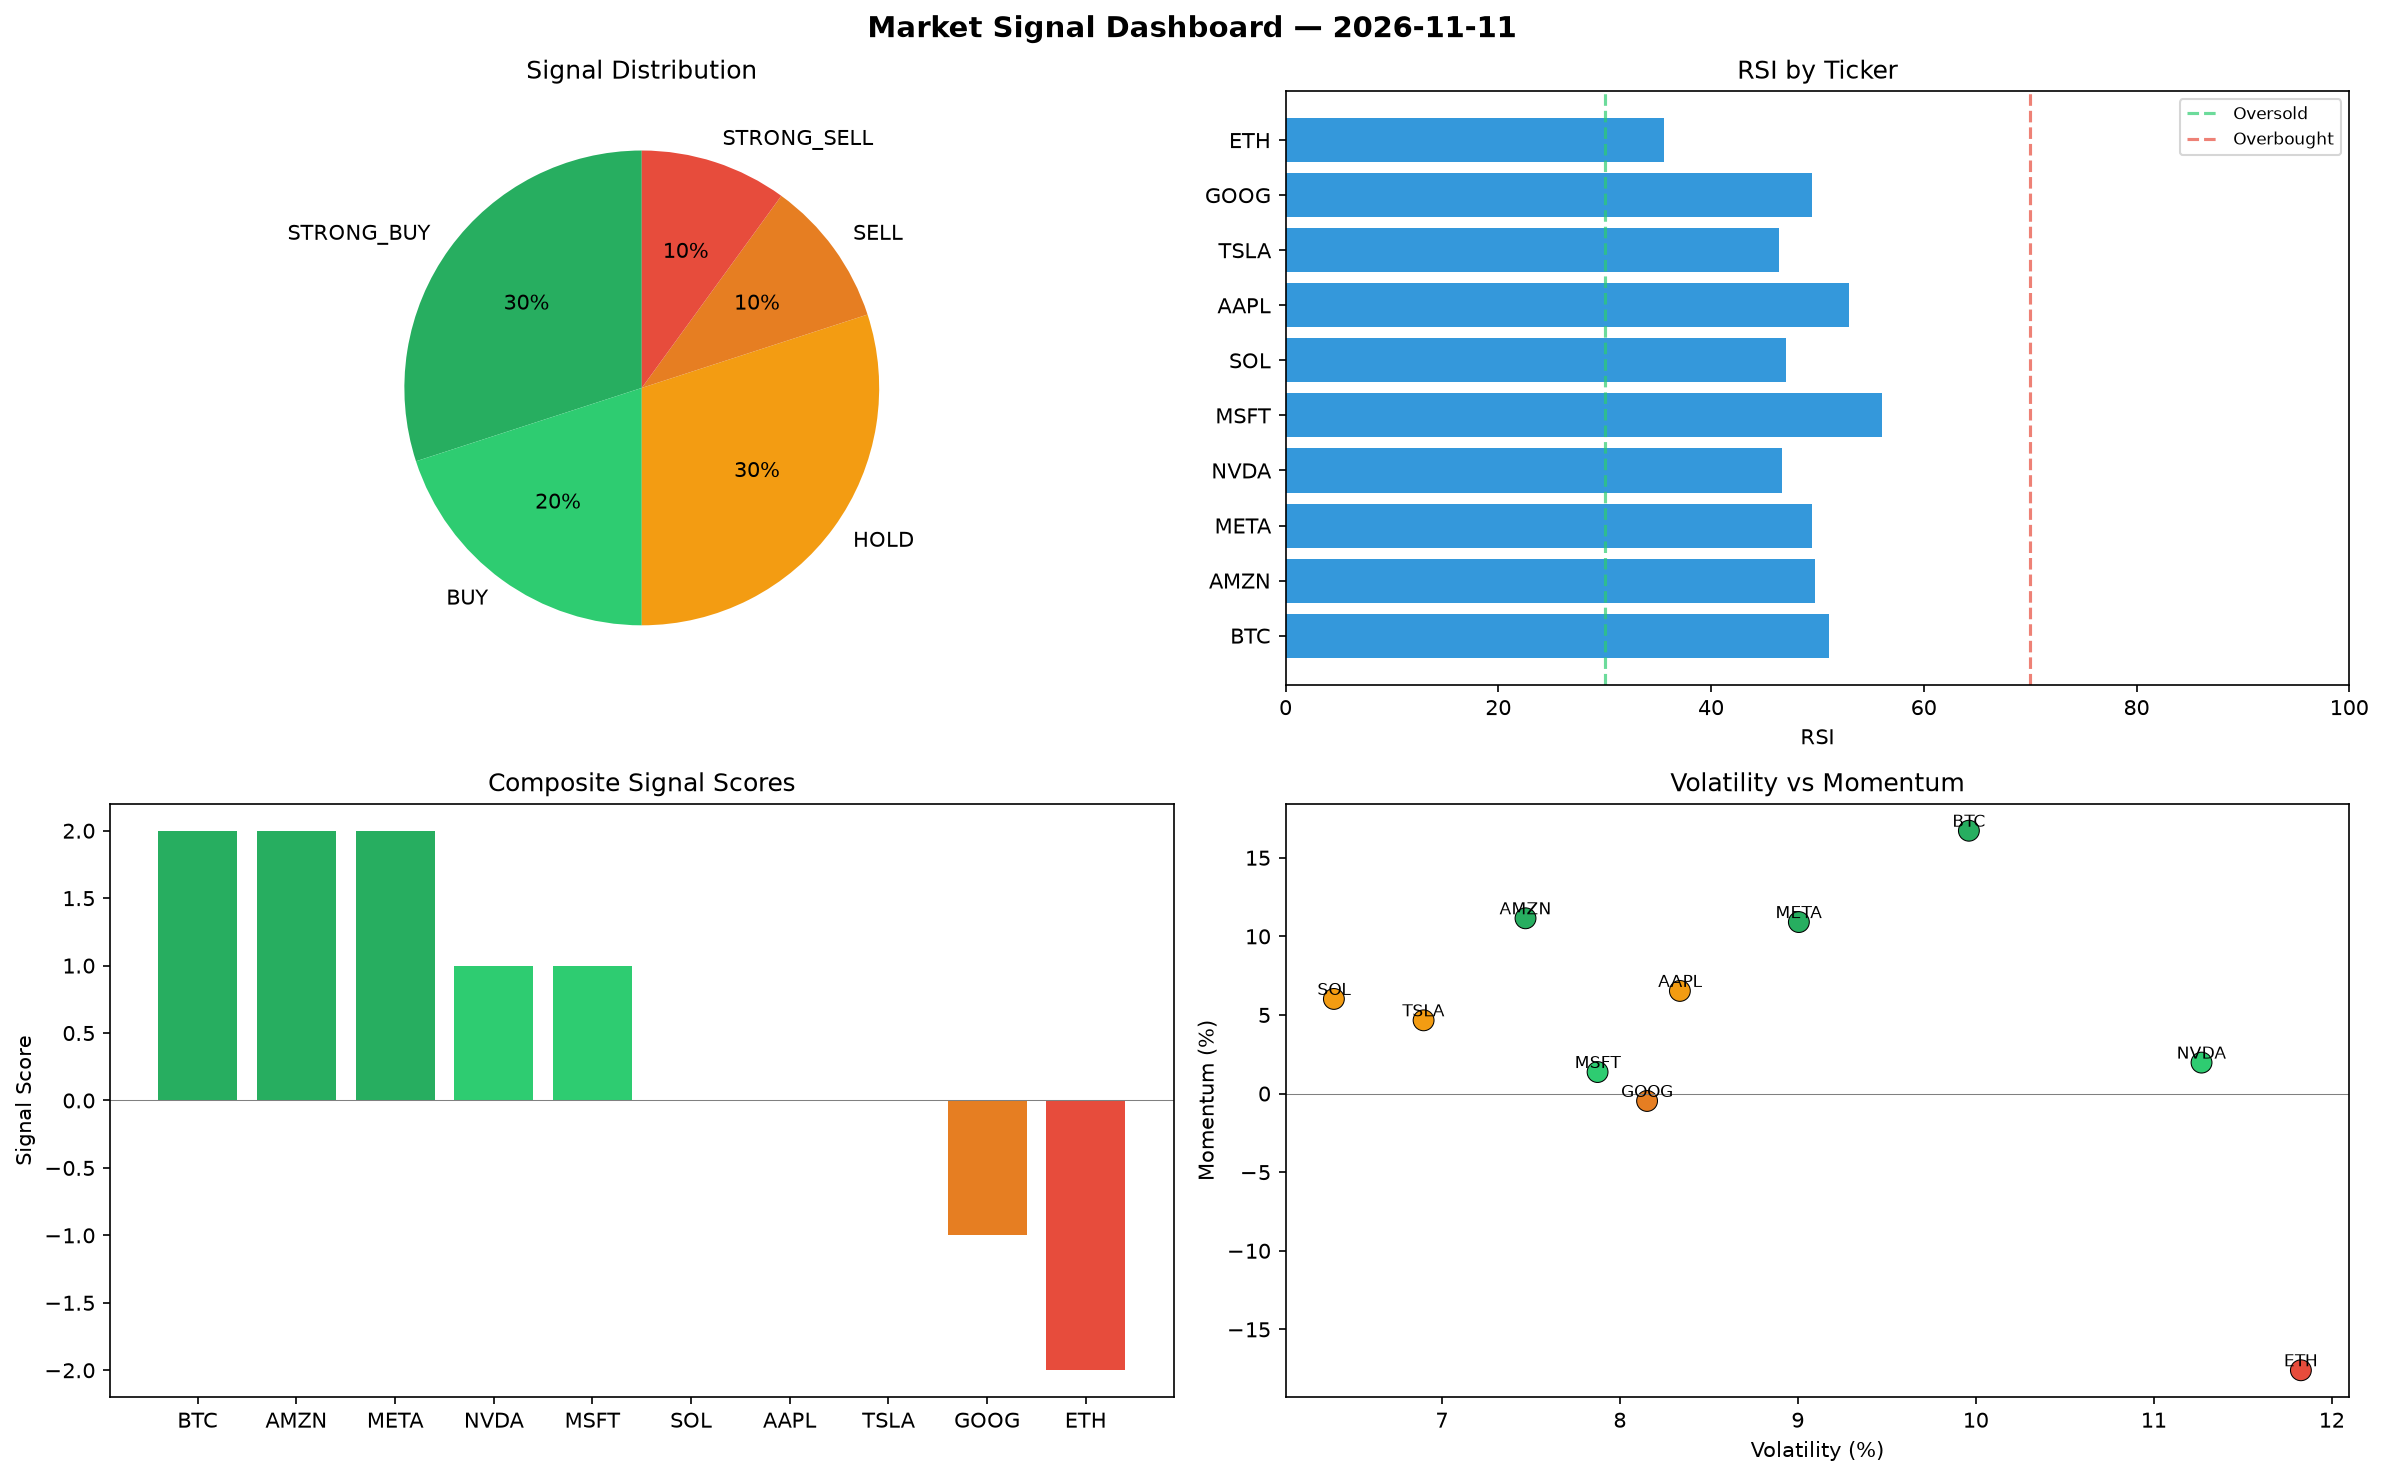
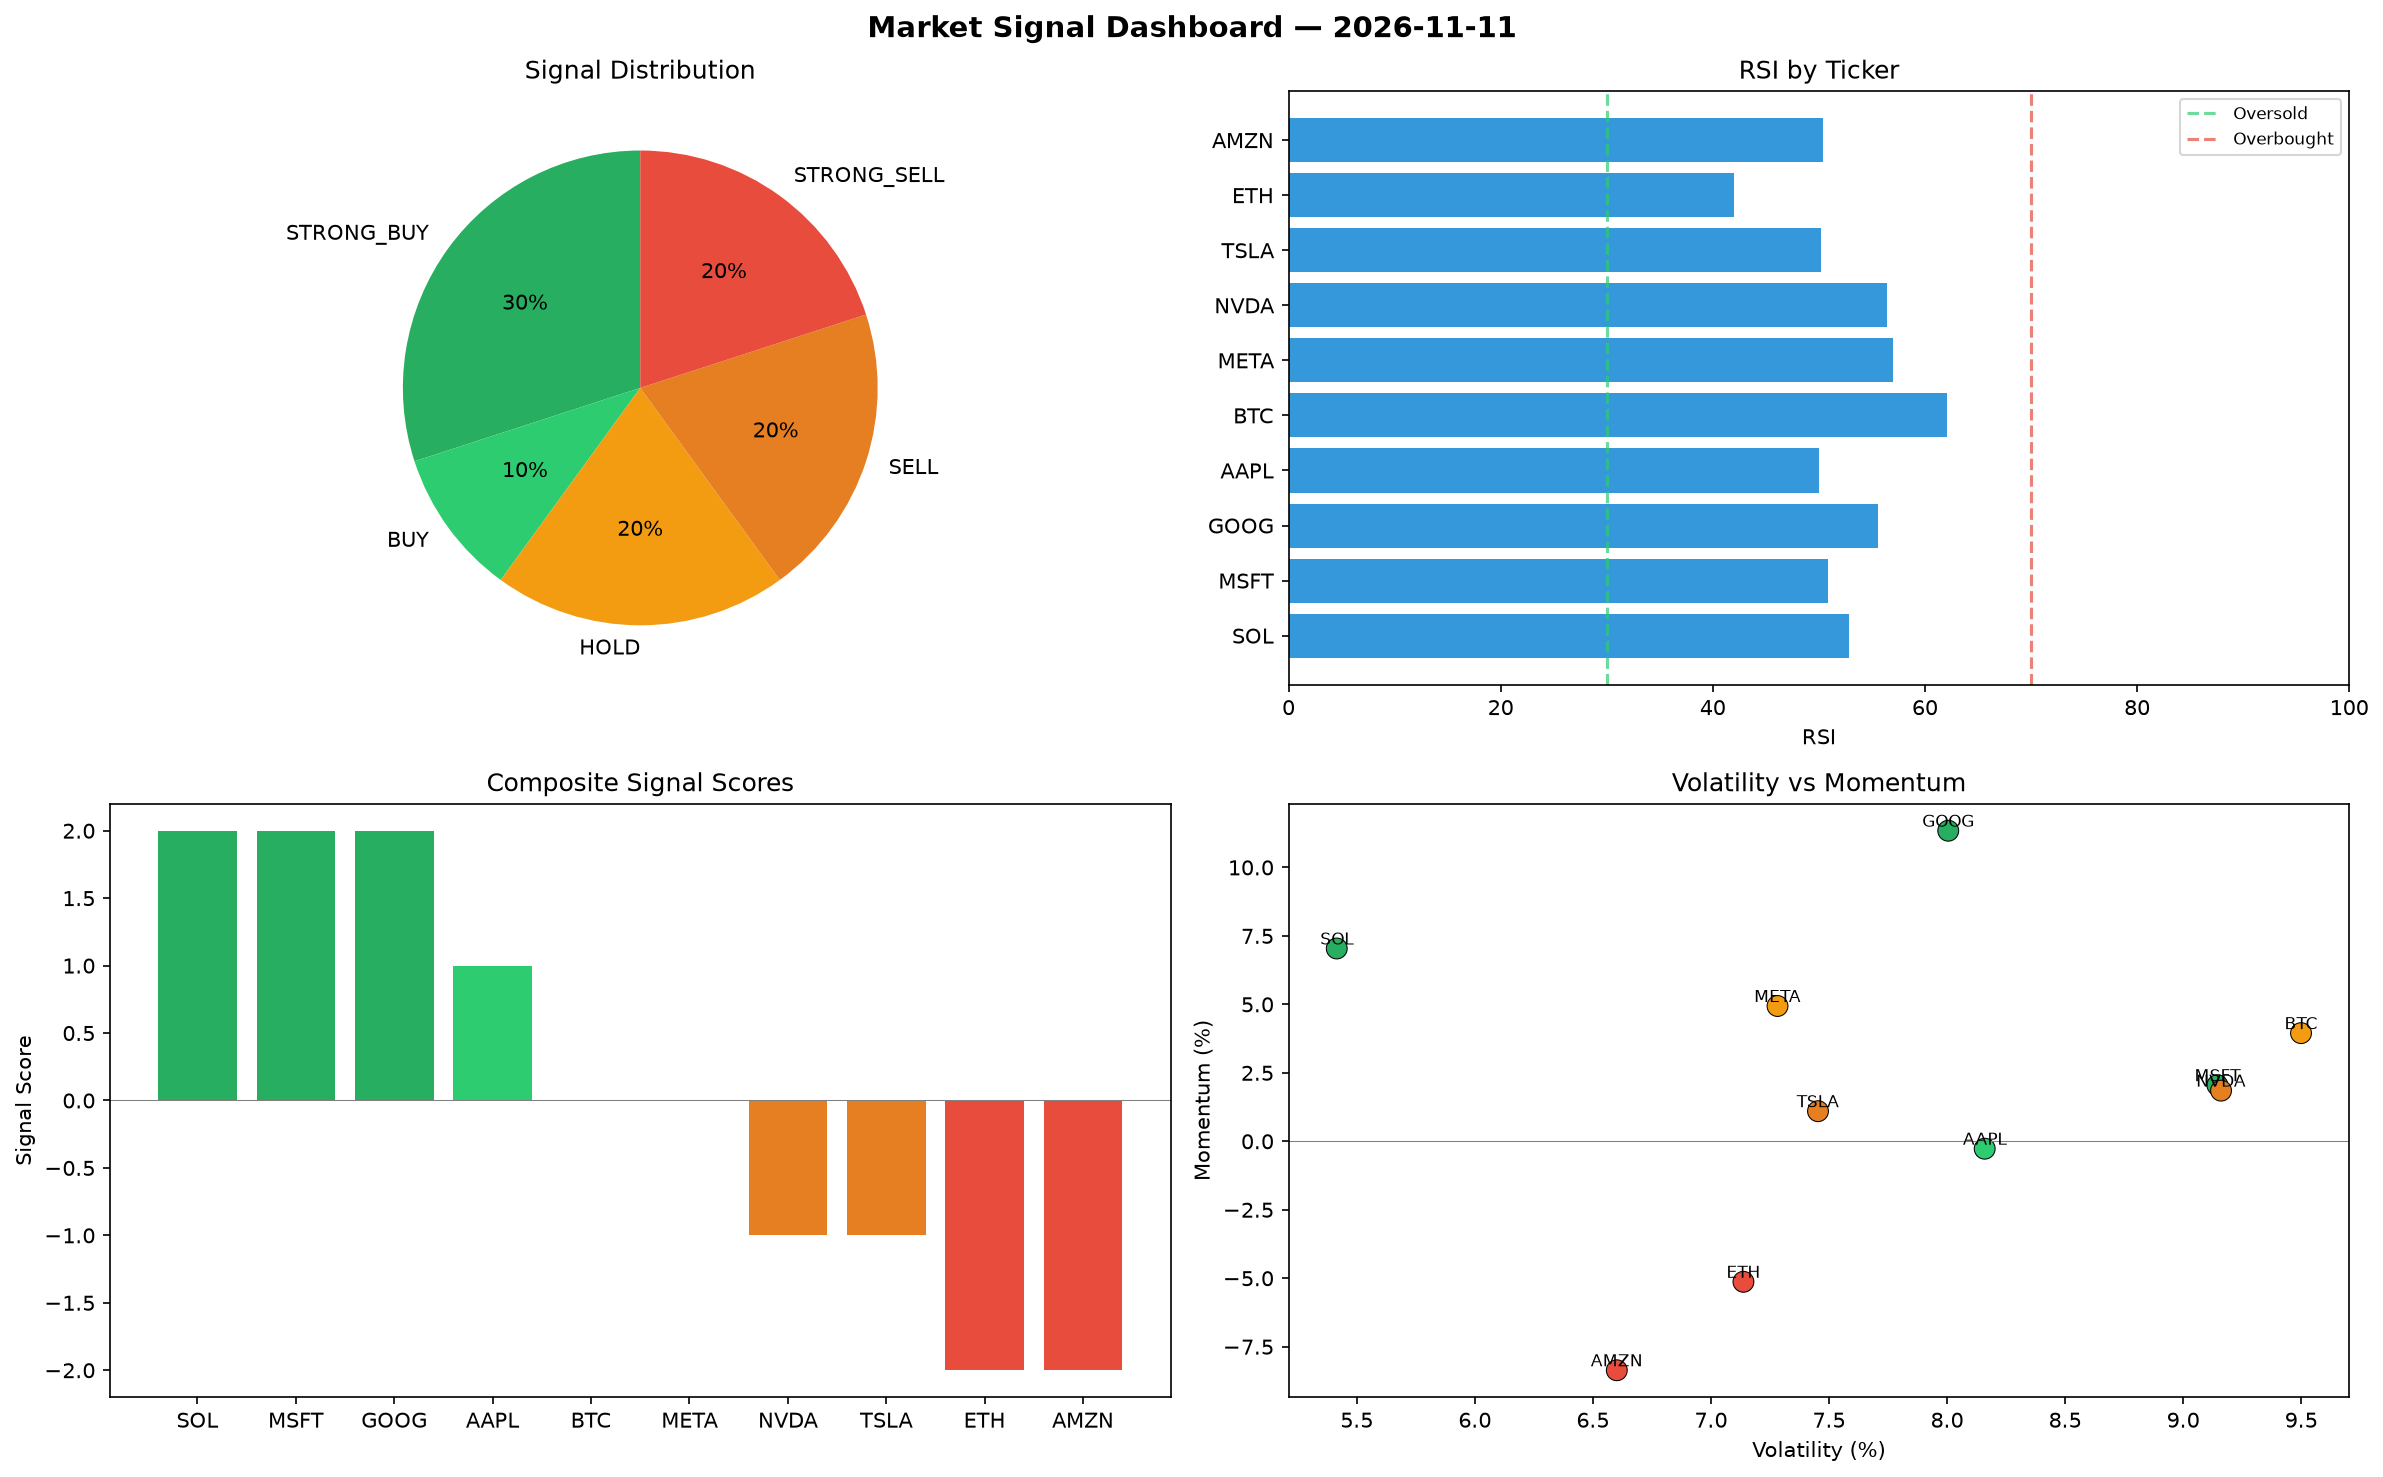
automated-bots: market signals 2026-11-11T09:42

diff --git a/logs/2026-11-11.md b/logs/2026-11-11.md
@@ -1,6 +1,6 @@
 # Market Signal Report — 2026-11-11
 
-**Run ID:** `7779448285` | **Buy:** 5 | **Sell:** 2 | **Hold:** 3
+**Run ID:** `4265b8f51d` | **Buy:** 4 | **Sell:** 4 | **Hold:** 2
 
 ![Dashboard](2026-11-11_dashboard.png)
 
@@ -8,28 +8,28 @@
 
 | Ticker | Price | Signal | Score | RSI | Momentum | Confidence |
 |--------|-------|--------|-------|-----|----------|------------|
-| BTC | $725.39 | **STRONG_BUY** | 2 | 51.11 | 0.1672 | 0.5 |
-| AMZN | $800.38 | **STRONG_BUY** | 2 | 49.79 | 0.1115 | 0.5 |
-| META | $39.74 | **STRONG_BUY** | 2 | 49.5 | 0.1091 | 0.5 |
-| NVDA | $1602.36 | **BUY** | 1 | 46.65 | 0.0197 | 0.25 |
-| MSFT | $5058.2 | **BUY** | 1 | 56.04 | 0.0137 | 0.25 |
-| SOL | $180.74 | **HOLD** | 0 | 47.09 | 0.0602 | 0.0 |
-| AAPL | $324.62 | **HOLD** | 0 | 52.99 | 0.0653 | 0.0 |
-| TSLA | $4909.17 | **HOLD** | 0 | 46.38 | 0.0466 | 0.0 |
-| GOOG | $1545.27 | **SELL** | -1 | 49.49 | -0.0047 | 0.25 |
-| ETH | $2528.44 | **STRONG_SELL** | -2 | 35.58 | -0.176 | 0.5 |
+| SOL | $4950.46 | **STRONG_BUY** | 2 | 52.84 | 0.0704 | 0.5 |
+| MSFT | $2685.28 | **STRONG_BUY** | 2 | 50.83 | 0.0205 | 0.5 |
+| GOOG | $2944.31 | **STRONG_BUY** | 2 | 55.53 | 0.1134 | 0.5 |
+| AAPL | $4264.48 | **BUY** | 1 | 49.98 | -0.0027 | 0.25 |
+| BTC | $4249.49 | **HOLD** | 0 | 62.07 | 0.0395 | 0.0 |
+| META | $1932.79 | **HOLD** | 0 | 56.96 | 0.0494 | 0.0 |
+| NVDA | $201.06 | **SELL** | -1 | 56.43 | 0.0185 | 0.25 |
+| TSLA | $2611.56 | **SELL** | -1 | 50.17 | 0.011 | 0.25 |
+| ETH | $3248.12 | **STRONG_SELL** | -2 | 41.96 | -0.0513 | 0.5 |
+| AMZN | $405.88 | **STRONG_SELL** | -2 | 50.34 | -0.0836 | 0.5 |
 
 ## Delta vs Yesterday
 
 | Ticker | Today | Yesterday | Price Change | Signal Changed |
 |--------|-------|-----------|-------------|----------------|
-| BTC | STRONG_BUY | STRONG_BUY | 📈 328.26% | — |
-| AMZN | STRONG_BUY | SELL | 📉 -2.79% | ⚠ YES |
-| META | STRONG_BUY | STRONG_BUY | 📉 -98.25% | — |
-| NVDA | BUY | BUY | 📉 -18.85% | — |
-| MSFT | BUY | HOLD | 📈 132.57% | ⚠ YES |
-| SOL | HOLD | STRONG_BUY | 📉 -92.33% | ⚠ YES |
-| AAPL | HOLD | SELL | 📉 -71.64% | ⚠ YES |
-| TSLA | HOLD | SELL | 📈 144.65% | ⚠ YES |
-| GOOG | SELL | HOLD | 📉 -59.27% | ⚠ YES |
-| ETH | STRONG_SELL | HOLD | 📈 6.67% | ⚠ YES |
+| SOL | STRONG_BUY | STRONG_BUY | 📈 110.08% | — |
+| MSFT | STRONG_BUY | HOLD | 📈 23.47% | ⚠ YES |
+| GOOG | STRONG_BUY | HOLD | 📉 -22.39% | ⚠ YES |
+| AAPL | BUY | SELL | 📈 272.56% | ⚠ YES |
+| BTC | HOLD | STRONG_BUY | 📈 2408.85% | ⚠ YES |
+| META | HOLD | STRONG_BUY | 📉 -14.75% | ⚠ YES |
+| NVDA | SELL | BUY | 📉 -89.82% | ⚠ YES |
+| TSLA | SELL | SELL | 📈 30.15% | — |
+| ETH | STRONG_SELL | HOLD | 📈 37.03% | ⚠ YES |
+| AMZN | STRONG_SELL | SELL | 📉 -50.7% | ⚠ YES |
